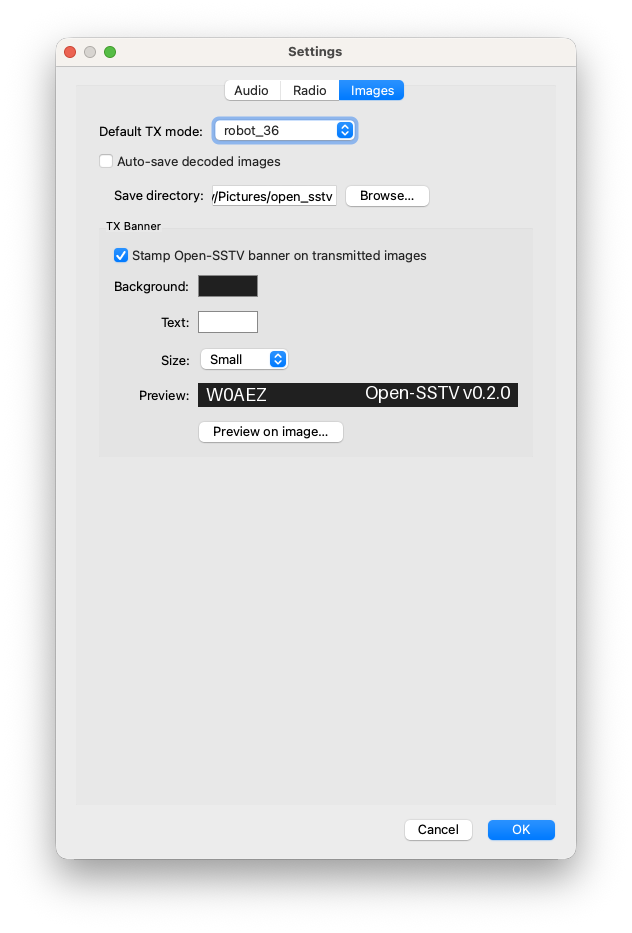
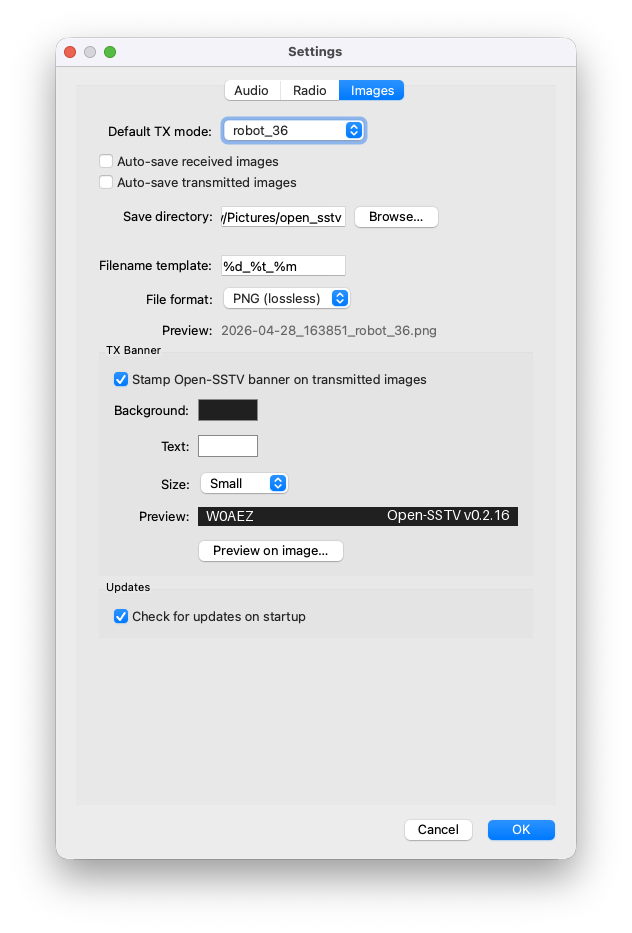
docs: refresh screenshots for v0.3.0
Replaces the v0.2-era main window, settings, and image-editor screenshots
with v0.3.0 captures showing the new template gallery, QSO state widget,
and the actual current Settings tabs.  Adds two new screenshots:

- template-editor.png — the three-panel editor (Layers / Live preview /
  Properties + sample QSO state).
- about-dialog.png — the v0.3.0 about dialog.

Drops the now-obsolete:
- qso-templates.png — depicted the v0.2 button-bar overlay editor that
  the v0.3 template compositor replaces.
- main-window-empty.png — superseded by the live main window capture.

README.md and docs/index.html are updated to point at the new file set
with refreshed captions; the index.html screenshots gallery now flows
main → template editor → image editor → audio → radio → images → about.

diff --git a/docs/index.html b/docs/index.html
@@ -822,12 +822,17 @@
 
       <div class="screenshot-item" onclick="openLightbox('screenshots/main-window.png')">
         <img src="screenshots/main-window.png" alt="Main Window" />
-        <div class="screenshot-caption">Main Window — TX &amp; RX</div>
+        <div class="screenshot-caption">Main Window — TX &amp; RX with v0.3 Template Gallery</div>
       </div>
 
-      <div class="screenshot-item" onclick="openLightbox('screenshots/qso-templates.png')">
-        <img src="screenshots/qso-templates.png" alt="QSO Templates" />
-        <div class="screenshot-caption">QSO Templates</div>
+      <div class="screenshot-item" onclick="openLightbox('screenshots/template-editor.png')">
+        <img src="screenshots/template-editor.png" alt="Template Editor" />
+        <div class="screenshot-caption">Template Editor — Layers / Live Preview / Properties</div>
+      </div>
+
+      <div class="screenshot-item" onclick="openLightbox('screenshots/image-editor.png')">
+        <img src="screenshots/image-editor.png" alt="Image Editor" />
+        <div class="screenshot-caption">Image Editor — Crop &amp; Text Overlays</div>
       </div>
 
       <div class="screenshot-item" onclick="openLightbox('screenshots/settings-audio.png')">
@@ -845,14 +850,9 @@
         <div class="screenshot-caption">Settings — Images</div>
       </div>
 
-      <div class="screenshot-item" onclick="openLightbox('screenshots/image-editor.png')">
-        <img src="screenshots/image-editor.png" alt="Image Editor" />
-        <div class="screenshot-caption">Image Editor — Crop &amp; Text Overlays</div>
-      </div>
-
-      <div class="screenshot-item" onclick="openLightbox('screenshots/main-window-empty.png')">
-        <img src="screenshots/main-window-empty.png" alt="Main Window — Idle" />
-        <div class="screenshot-caption">Main Window — Idle State</div>
+      <div class="screenshot-item" onclick="openLightbox('screenshots/about-dialog.png')">
+        <img src="screenshots/about-dialog.png" alt="About Dialog" />
+        <div class="screenshot-caption">About — v0.3.0, 22 Modes</div>
       </div>
 
     </div>

diff --git a/README.md b/README.md
@@ -202,16 +202,16 @@ Robot 12, Robot 24, Robot 72. Planned for a future release.
 
 ![Open-SSTV main window](docs/screenshots/main-window.png)
 
-*Main window — image loaded, QSO template buttons, mode selector, RX panel*
+*Main window — TX panel with the v0.3 template gallery filtered by role, QSO state widget, mode selector, and the live RX panel waiting for a signal*
 
 | | |
 |---|---|
+| ![Template editor](docs/screenshots/template-editor.png) | ![Image editor](docs/screenshots/image-editor.png) |
+| *Template editor — three-panel form (Layers / Live preview / Properties) with sample QSO state for token previews* | *Image editor — crop, rotate, flip, and text overlays before encode* |
 | ![Audio settings](docs/screenshots/settings-audio.png) | ![Radio settings](docs/screenshots/settings-radio.png) |
-| *Audio tab — device, gain sliders, weak-signal mode* | *Radio tab — Direct Serial / Icom CI-V, PTT, CW Station ID* |
-| ![Images settings](docs/screenshots/settings-images.png) | ![QSO templates](docs/screenshots/qso-templates.png) |
-| *Images tab — TX banner with live preview* | *QSO Templates — CQ DE W0AEZ overlay editor* |
-| ![Image editor](docs/screenshots/image-editor.png) | ![Main window idle](docs/screenshots/main-window-empty.png) |
-| *Image editor — crop, rotate, flip, text overlays* | *Main window — idle state at launch* |
+| *Audio tab — device, gain sliders, weak-signal mode, incremental decode* | *Radio tab — Direct Serial / Icom CI-V, PTT delay, CW Station ID* |
+| ![Images settings](docs/screenshots/settings-images.png) | ![About dialog](docs/screenshots/about-dialog.png) |
+| *Images tab — auto-save, TX banner with live preview, update-check opt-in* | *About dialog — v0.3.0, 22 modes, GPL-3.0-or-later* |
 
 ## Architecture
 
